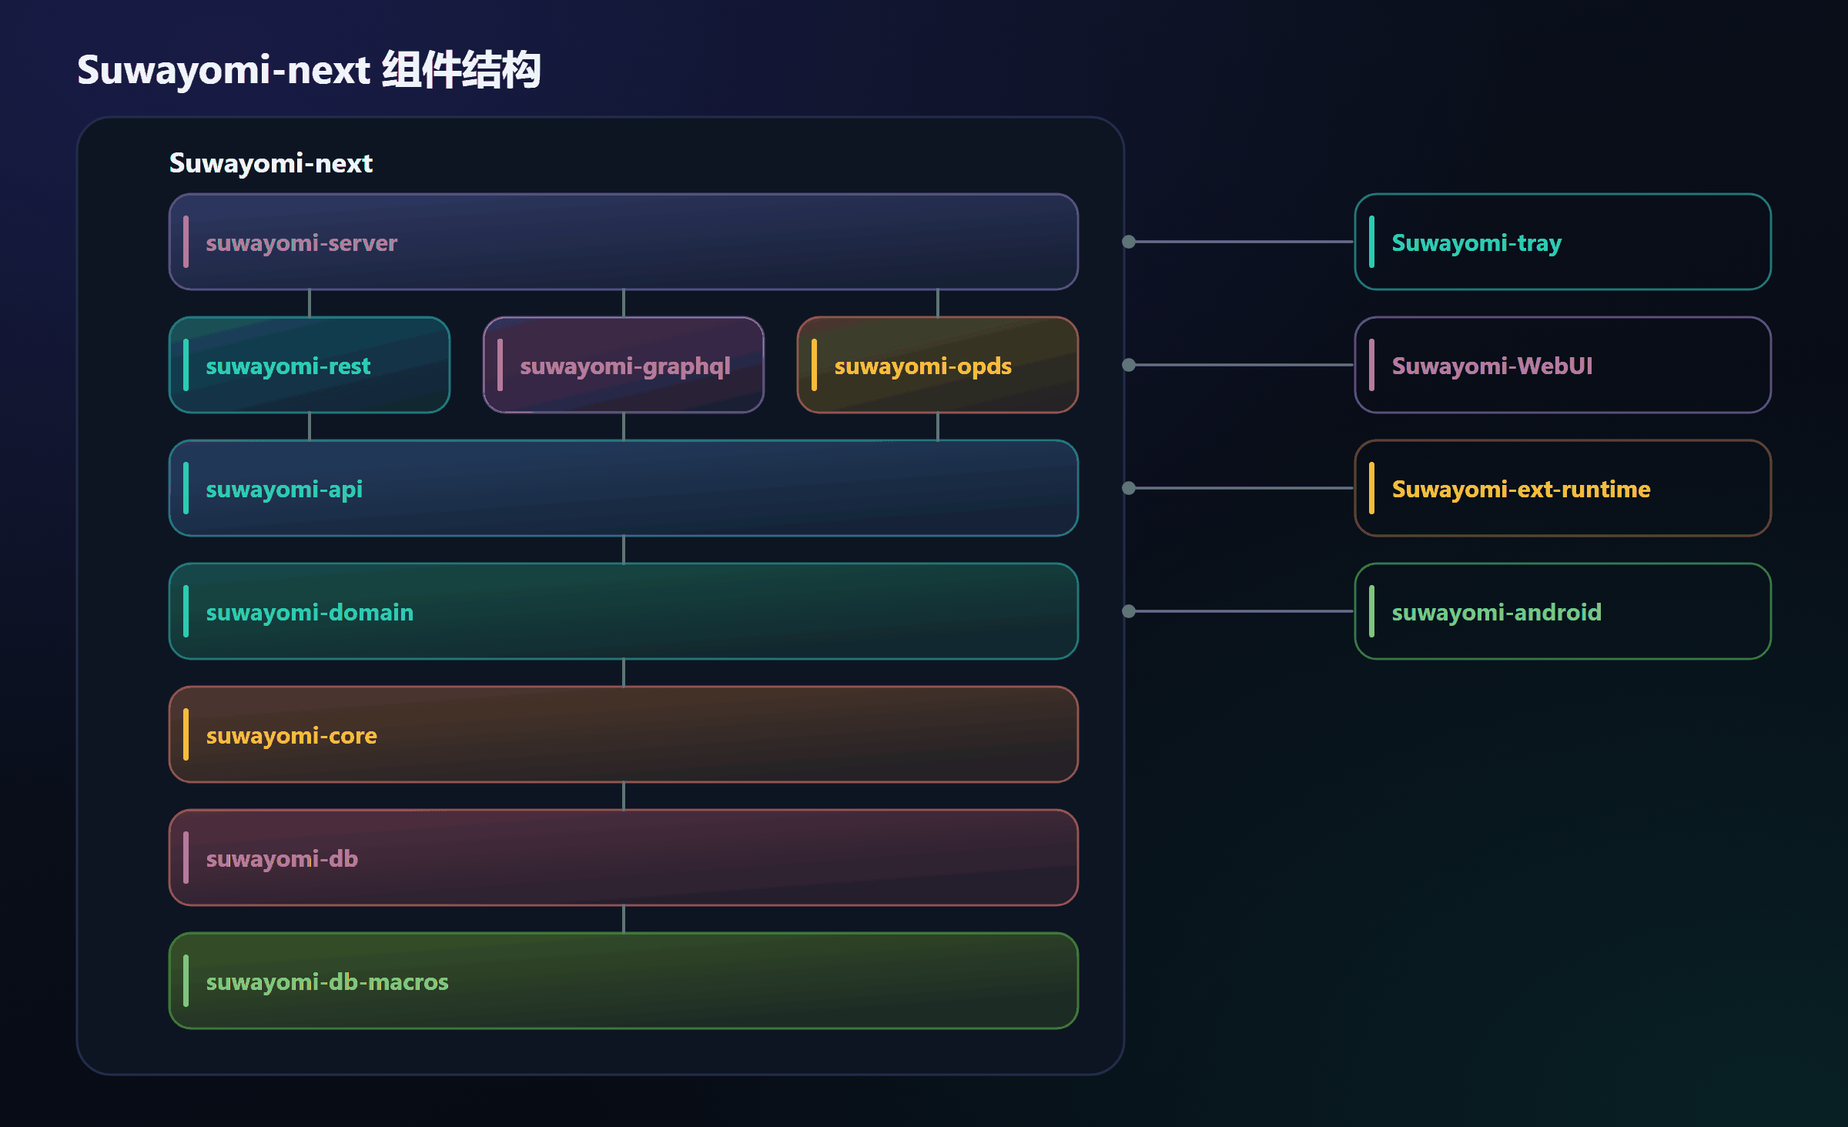
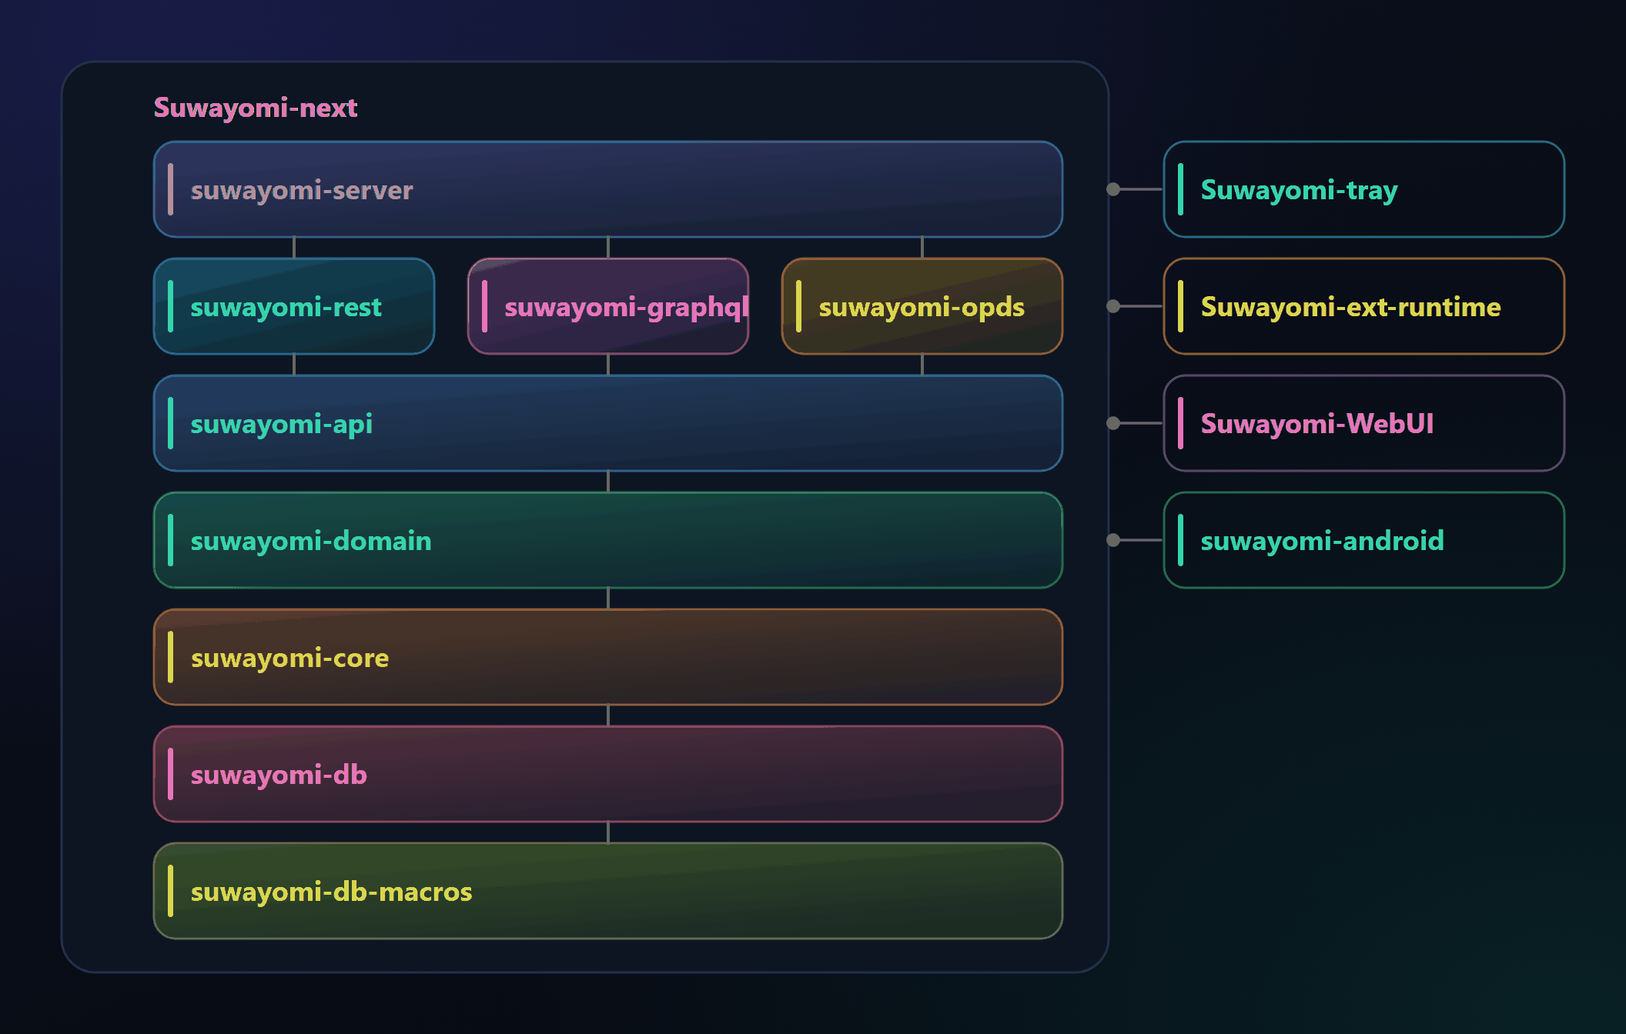
refactor: DatabaseType 去掉 H2，改为 RUSQLITE / POSTGRESQL 两值
H2 是 JVM 专有文件格式，本仓读不了；留着一个点了必然报错的选项没有意义。
认不出的值（含旧表单里的 H2）在回读时保持原样，只影响显示，不影响启动。

同时重画 assets/images/project-struct-simple.png：更紧凑、右列连接线收短、
托盘之后依次是 ext-runtime / WebUI / android、块内字号放大、去掉主标题。

Changed region(s): [[0.0312, 0.0312, 0.9688, 0.9688]]

diff --git a/crates/suwayomi-core/src/config.rs b/crates/suwayomi-core/src/config.rs
@@ -94,10 +94,13 @@ pub fn resolve_setting_path(value: &str, data_dir: &std::path::Path) -> std::pat
     std::path::PathBuf::from(value)
 }
 
-/// Mirrors `graphql/types/DatabaseType.kt`
+/// 数据库后端（GraphQL 的 `DatabaseType`）。
+///
+/// 参考实现的枚举里第一项是 `H2`（JVM 专有文件格式，本仓读不了），这里换成实际
+/// 存在的 `RUSQLITE`：留着 `H2` 就等于在设置页给一个点了必然报错的选项。
 #[derive(Debug, Clone, Copy, PartialEq, Eq, Serialize, Deserialize)]
 pub enum DatabaseType {
-    H2,
+    Rusqlite,
     Postgresql,
 }
 
@@ -200,7 +203,7 @@ impl Default for ServerConfig {
             // bind 报 10013）里：桌面由托盘启动前嗅探并顺延（见 Suwayomi-tray），
             // 独立运行由下面监听循环的自顺延兜底。
             port: 4567,
-            database_type: DatabaseType::H2,
+            database_type: DatabaseType::Rusqlite,
             database_url: String::new(),
             database_username: String::new(),
             database_password: String::new(),
@@ -271,7 +274,9 @@ impl ServerConfig {
         }
         if let Some(v) = text(blob, "databaseType") {
             self.database_type = match v.as_str() {
-                "H2" => DatabaseType::H2,
+                // 认不出的值（含旧表单里已删掉的 H2）保持原样：它只驱动显示，
+                // 真实后端由 `SUWAYOMI_DB_BACKEND` 决定
+                "RUSQLITE" => DatabaseType::Rusqlite,
                 "POSTGRESQL" => DatabaseType::Postgresql,
                 _ => self.database_type,
             };

diff --git a/crates/suwayomi-graphql/src/settings.rs b/crates/suwayomi-graphql/src/settings.rs
@@ -39,14 +39,14 @@ impl AuthMode {
 #[derive(Enum, Copy, Clone, Eq, PartialEq)]
 #[graphql(name = "DatabaseType")]
 pub enum GraphqlDatabaseType {
-    H2,
+    Rusqlite,
     Postgresql,
 }
 
 impl From<CoreDatabaseType> for GraphqlDatabaseType {
     fn from(t: CoreDatabaseType) -> Self {
         match t {
-            CoreDatabaseType::H2 => Self::H2,
+            CoreDatabaseType::Rusqlite => Self::Rusqlite,
             CoreDatabaseType::Postgresql => Self::Postgresql,
         }
     }
@@ -455,7 +455,7 @@ impl SettingsType {
         self.data_dir = ov_str(o, "dataDir", self.data_dir.clone());
         self.database_password = ov_str(o, "databasePassword", self.database_password.clone());
         self.database_type = match o.get("databaseType").and_then(Value::as_str) {
-            Some("H2") => GraphqlDatabaseType::H2,
+            Some("RUSQLITE") => GraphqlDatabaseType::Rusqlite,
             Some("POSTGRESQL") => GraphqlDatabaseType::Postgresql,
             _ => self.database_type,
         };

diff --git a/crates/suwayomi-server/src/lib.rs b/crates/suwayomi-server/src/lib.rs
@@ -50,7 +50,7 @@ pub fn config_from_env() -> ServerConfig {
     // 真实后端由 `DbSettings::from_env()` 决定 —— 两者的接线见
     // docs/agent/plans/database-settings.md。
     let mut cfg =
-        ServerConfig { database_type: suwayomi_core::config::DatabaseType::Postgresql, ..ServerConfig::default() };
+        ServerConfig { database_type: suwayomi_core::config::DatabaseType::Rusqlite, ..ServerConfig::default() };
     if let Ok(v) = std::env::var("SUWAYOMI_PORT") {
         cfg.port = v.parse().unwrap_or(cfg.port);
     }

diff --git a/crates/suwayomi-android/src/lib.rs b/crates/suwayomi-android/src/lib.rs
@@ -159,7 +159,7 @@ fn start_inner(
             port,
             // `database_type` 是 Kotlin 时代遗留的对外字段（WebUI 设置页会显示），
             // 与真实后端无关；这里与桌面 config_from_env() 保持一致。
-            database_type: suwayomi_core::config::DatabaseType::Postgresql,
+            database_type: suwayomi_core::config::DatabaseType::Rusqlite,
             ..ServerConfig::default()
         },
         data_dir: data_dir.clone(),

diff --git a/crates/suwayomi-graphql/src/mutation_b4.rs b/crates/suwayomi-graphql/src/mutation_b4.rs
@@ -2191,7 +2191,7 @@ fn partial_settings_to_json(s: &PartialSettingsTypeInput) -> serde_json::Value {
     put!(
         "databaseType",
         s.database_type.map(|v| match v {
-            GraphqlDatabaseType::H2 => "H2",
+            GraphqlDatabaseType::Rusqlite => "RUSQLITE",
             GraphqlDatabaseType::Postgresql => "POSTGRESQL",
         })
     );

diff --git a/docs/agent/plans/database-settings.md b/docs/agent/plans/database-settings.md
@@ -1,17 +1,17 @@
 # 数据库设置：把设置页的四个字段接到真实后端
 
-目标：让设置里那组数据库字段（`databaseType` / `databaseUrl` / `databaseUsername` /
-`databasePassword`，外加 `useHikariConnectionPool`）**真的决定库开在哪**，而不是像现在
-这样存下来、显示回去、然后被忽略。
+目标：让设置里那组数据库字段（`databaseType` / `databaseUrl` / `databaseUsername` /  
+`databasePassword`）**真的决定库开在哪**，而不是像现在这样存下来、显示回去、然后被忽略。  
+同组的 `useHikariConnectionPool` 相反 —— 本仓后端没有它，字段留着但**不接线、不显示**。
 
 核对基准：
 
-| 参考实现 | commit | 关键文件 |
-| --- | --- | --- |
+| 参考实现            | commit     | 关键文件                                                                                                                                                     |
+| --------------- | ---------- | -------------------------------------------------------------------------------------------------------------------------------------------------------- |
 | Suwayomi-Server | `d37230ee` | `server/server-config/src/main/kotlin/suwayomi/tachidesk/server/ServerConfig.kt`、`AndroidCompat/Config/.../ConfigManager.kt`、`server/.../ServerSetup.kt` |
 
-术语约定：下文**参考实现** = `Suwayomi/Suwayomi-Server`（Kotlin 版）。本项目与它在
-数据模型与接口上兼容，但**后端实现不同**：它跑 JVM（H2 / PostgreSQL + Hikari），本仓
+术语约定：下文**参考实现** = `Suwayomi/Suwayomi-Server`（Kotlin 版）。本项目与它在  
+数据模型与接口上兼容，但**后端实现不同**：它跑 JVM（H2 / PostgreSQL + Hikari），本仓  
 跑原生 Rust（SQLite / PostgreSQL）。
 
 ---
@@ -28,36 +28,38 @@ crates/suwayomi-db/src/config.rs   DbSettings::from_env()
 
 而设置页那四个字段走的是另一条链，**终点是显示**：
 
-| 环节 | 位置 |
-| --- | --- |
-| 写入 | `setSettings` → `mutation_b4.rs:2190` 起，落进 `global_meta['settings']` 的 JSON blob |
-| 读进配置 | `ServerConfig::apply_settings_blob`（`suwayomi-core/src/config.rs:272-290`） |
-| 回读显示 | `state.rs:95-114`：`ServerConfig` 上盖一层 blob → `Query.settings` |
+| 环节   | 位置                                                                               |
+| ---- | -------------------------------------------------------------------------------- |
+| 写入   | `setSettings` → `mutation_b4.rs:2190` 起，落进 `global_meta['settings']` 的 JSON blob |
+| 读进配置 | `ServerConfig::apply_settings_blob`（`suwayomi-core/src/config.rs:272-290`）       |
+| 回读显示 | `state.rs:95-114`：`ServerConfig` 上盖一层 blob → `Query.settings`                    |
 
-`run()` 里开库用的是 `db_settings.unwrap_or_else(|| DbSettings::from_env(...))`
-（`suwayomi-server/src/lib.rs`），**不读 blob**。于是设置页显示的是"你存了什么"，
+`run()` 里开库用的是 `db_settings.unwrap_or_else(|| DbSettings::from_env(...))`  
+（`suwayomi-server/src/lib.rs`），**不读 blob**。于是设置页显示的是"你存了什么"，  
 不是"正在用什么"。
 
 另外两条事实（决定了后面能怎么接）：
 
-- **嵌入式 Oliphaunt 已删除**（`suwayomi-server/Cargo.toml:40` 的注释），所以
-  `DatabaseType::H2` 在本项目里没有对应实现 —— H2 是 JVM 专有格式，本仓读不了。
-- **没有 Hikari**：PostgreSQL 侧是 `deadpool`，池大小写死 `max_size(24)`
-  （`suwayomi-db/src/backend/postgres.rs:30`）。`useHikariConnectionPool` 只是一个
-  参考实现 schema 里的字段（备份协议 `backup.rs:420-431` 也带着它）。
+- **嵌入式 Oliphaunt 已删除**（`suwayomi-server/Cargo.toml:40` 的注释），参考实现枚举里的  
+  `H2` 在本项目里没有对应实现 —— 它是 JVM 专有文件格式，本仓读不了。所以本仓的  
+  `DatabaseType` 是 `RUSQLITE` / `POSTGRESQL` 两个值（2026-09-30 已改），没有 `H2`。
+- **没有 Hikari**：PostgreSQL 侧是 `deadpool`，池大小写死 `max_size(24)`  
+  （`suwayomi-db/src/backend/postgres.rs:30`）。`useHikariConnectionPool` 只是一个  
+  参考实现 schema 里的字段（备份协议 `backup.rs:420-431` 也带着它），WebUI 侧已把它  
+  移出界面（`DebugInformation.tsx` 的 `UNSUPPORTED_SERVER_SETTINGS`）。
 
 ---
 
 ## 1. 为什么不能把这一项存进库
 
-**库就是被这一项选出来的。** 把选择结果写进 `global_meta` 后，改完设置重启时读到的
-还是旧库里的旧值 —— 换了 `databaseType` 就永远读不到新值，这正是"设置不生效"的根因，
+**库就是被这一项选出来的。** 把选择结果写进 `global_meta` 后，改完设置重启时读到的  
+还是旧库里的旧值 —— 换了 `databaseType` 就永远读不到新值，这正是"设置不生效"的根因，  
 不是"忘了读"。同理，它也不能靠"重启时读文件"以外的方式持久化。
 
-参考实现正是这么做的：整个 `ServerConfig` 存在**库之外**的 HOCON 文件
-`<ApplicationRootDir>/server.conf`（`ConfigManager.userConfigFile`），
-`-Dsuwayomi.tachidesk.config.server.<字段>` 可覆盖；`ServerSetup.kt:347` 还订阅了
-`DatabaseSettings` 五个字段的组合流，变化时直接 `databaseUp()` 重开库。
+参考实现正是这么做的：整个 `ServerConfig` 存在**库之外**的 HOCON 文件  
+`<ApplicationRootDir>/server.conf`（`ConfigManager.userConfigFile`），  
+`-Dsuwayomi.tachidesk.config.server.<字段>` 可覆盖；`ServerSetup.kt:347` 还订阅了  
+`DatabaseSettings` 五个字段的组合流，变化时直接 `databaseUp()` 重开库。  
 我们只做到了"env 决定 + 库内展示"，两边的口径是断的。
 
 ---
@@ -67,7 +69,7 @@ crates/suwayomi-db/src/config.rs   DbSettings::from_env()
 放在这里而不是库里、也不是别的目录，理由有三条：
 
 - 它在库**之前**就可读：库在 `<appdata>/db/`，`settings/` 是它的兄弟目录；
-- 这个目录本来就是"库之外的进程状态"：`trackers.json`、`session.key` 同处，
+- 这个目录本来就是"库之外的进程状态"：`trackers.json`、`session.key` 同处，  
   容器里随 appdata 卷一起走，不需要新的可写根；
 - 与 `tray.json` 同构：都是"某个进程写在 appdata 下的设置文件"。
 
@@ -84,55 +86,58 @@ crates/suwayomi-db/src/config.rs   DbSettings::from_env()
 
 **优先级：env → 文件 → 默认**（`SUWAYOMI_DB_BACKEND` / `SUWAYOMI_DB_URL` 仍是最高档）。
 
-- env 优先是刻意的：容器与单机部署没有设置页，env 必须能压过文件；这与
+- env 优先是刻意的：容器与单机部署没有设置页，env 必须能压过文件；这与  
   `SUWAYOMI_APPDATA_DIR` 的语义一致（env 是部署级，文件是应用级）。
-- **两者不一致时以 env 为准并 warn**，设置页上标明"被环境变量覆盖"。否则用户点完
+- **两者不一致时以 env 为准并 warn**，设置页上标明"被环境变量覆盖"。否则用户点完  
   保存、重启、发现没变，就又回到今天这种"设置不生效"的体验。
 
-写入侧：`setSettings` 把这四个字段同时写文件（仍是原来那份 blob 也照写，`Query.settings`
+写入侧：`setSettings` 把这四个字段同时写文件（仍是原来那份 blob 也照写，`Query.settings`  
 的回读要它），并返回/提示"重启后生效"（与 `dataDir` 同构）。
 
-⚠ **换后端不搬运数据**：SQLite ↔ PostgreSQL 之间没有迁移，换过去就是一个按迁移脚本
+⚠ **换后端不搬运数据**：SQLite ↔ PostgreSQL 之间没有迁移，换过去就是一个按迁移脚本  
 新建的空库。设置页必须在切换处明写这一点，否则用户以为"切过去就能看到书架"。
 
 ### 不采用的方案
 
-| 方案 | 为什么不 |
-| --- | --- |
-| 存进 `global_meta`（现状） | 选的库是它自己，重启即失效（见第 1 节） |
-| 只保留 env，把四个字段从 GraphQL 摘掉 | 与参考实现的 schema 差异扩大，且 WebUI 的调试信息页已经在展示它们 |
+| 方案                                   | 为什么不                                                    |
+| ------------------------------------ | ------------------------------------------------------- |
+| 存进 `global_meta`（现状）                 | 选的库是它自己，重启即失效（见第 1 节）                                   |
+| 只保留 env，把四个字段从 GraphQL 摘掉            | 与参考实现的 schema 差异扩大，且 WebUI 的调试信息页已经在展示它们                |
 | 指向一个固定的 `suwayomi.conf`（照抄 HOCON 形态） | 本仓没有 HOCON 依赖；`settings/` 下已有一批 JSON 形态的状态文件，再加一种格式没有收益 |
 
 ---
 
 ## 3. 逐字段接线
 
-| 字段 | 现状 | 接线后 |
-| --- | --- | --- |
-| `databaseType` | 只显示，`config_from_env()` 里写死 `Postgresql` | 枚举加 `SQLITE`；`H2` 保留但**选它即报错**（H2 文件读不了），默认 `SQLITE` |
-| `databaseUrl` | 只显示 | `backend=postgres` 时作为连接串；落盘前校验非空且能解析成 PG 串，失败不落盘并回错 |
-| `databaseUsername` / `databasePassword` | 只显示 | `DbSettings` 加这两个字段（**不并进 DSN**：`tokio-postgres` 的报错会带整条 URL，凭据会进日志），`describe()` 打码 |
-| `useHikariConnectionPool` | 只显示，无实现 | **不接线**：接收但当成 no-op（baseline 与备份协议里有这个键）；将来要池旋钮就另立名字（如 `dbPoolSize`），别把一个 JVM 库的名字当开关 |
+| 字段                                      | 现状                                       | 接线后                                                                                   |
+| --------------------------------------- | ---------------------------------------- | ------------------------------------------------------------------------------------- |
+| `databaseType`                          | 只显示，枚举是 `RUSQLITE` / `POSTGRESQL`      | 决定 `BackendKind`：`RUSQLITE` → SQLite、`POSTGRESQL` → PostgreSQL（与 `SUWAYOMI_DB_BACKEND` 同义，env 优先） |
+| `databaseUrl`                           | 只显示                                      | `databaseType=POSTGRESQL` 时作为连接串；落盘前校验非空且能解析成 PG 串，失败不落盘并回错                          |
+| `databaseUsername` / `databasePassword` | 只显示                                      | `DbSettings` 加这两个字段（**不并进 DSN**：`tokio-postgres` 的报错会带整条 URL，凭据会进日志），`describe()` 打码  |
+| `useHikariConnectionPool`               | 只显示，无实现                                  | **不接线**：接收但当成 no-op（baseline 与备份协议里有这个键），且**不再显示**；将来要池旋钮就另立名字（如 `dbPoolSize`），别把一个 JVM 库的名字当开关 |
 
-`DatabaseType` 加 `SQLITE` 的连带影响：
+枚举里**不留 `H2`**：留着它，设置页就会给出一个点了必然报错的选项，而它到不了任何  
+后端。旧 blob 里存过的 `H2` 按"认不出的值"处理（保持现值），不影响启动。
 
-- `suwayomi-core/src/config.rs` 的 `DatabaseType`、`suwayomi-graphql/src/settings.rs`
+连带影响：
+
+- `suwayomi-core/src/config.rs` 的 `DatabaseType`、`suwayomi-graphql/src/settings.rs`  
   的 `GraphqlDatabaseType`、以及 `settings.rs` / `config.rs` 里两处字符串映射；
-- **schema 基线不用改**：`schema_matches_baseline` 只比顶层类型定义名；
-- **WebUI 侧必须重跑 codegen**（枚举多一个值），并且 gen 出的
-  `ServerSettings.tsx` 注释里那句 "`SUWAYOMI_DB_BACKEND` / `SUWAYOMI_DATABASE_URL`"
-  已经过期（后者早已改名成 `SUWAYOMI_DB_URL`），顺手改掉。
+- **schema 基线要改**：`enum DatabaseType` 的值换成 `RUSQLITE` / `POSTGRESQL`  
+  （`schema_matches_baseline` 只比顶层类型定义名，所以改值不会让测试红 —— 但基线是  
+  WebUI codegen 的 schema 来源，必须跟着改）；
+- **WebUI 侧必须重跑 codegen**，否则 `graphql-base.types.ts` 里的枚举值对不上。
 
 ---
 
 ## 4. 前端（WebUI 仓）
 
-`ServerSettings.tsx` 的「服务端设置」当初就没恢复「数据库」分区，注释里写明原因
-（"由 env 决定，H2 与 Hikari 无对应实现"）。接线后重开这块，只放四个字段 +
-两条只读信息：
+`ServerSettings.tsx` 的「服务端设置」没有「数据库」分区，原因写在它的头顶注释里  
+（后端由 env 决定、Hikari 无对应实现）。接线后重开这块，只放四个字段 +  
+两条只读信息（`useHikariConnectionPool` 不进界面）：
 
 - 三个可编辑项：类型（下拉）/ URL / 用户名 / 口令；
-- 只读「当前生效」：`databaseType` 与 `databaseUrl` 回读的必须是**实际生效**的值
+- 只读「当前生效」：`databaseType` 与 `databaseUrl` 回读的必须是**实际生效**的值  
   （env 或引导文件），不是刚存的草稿；
 - 「改完需重启」提示 + 「换后端不会搬运数据」警示。
 
@@ -140,20 +145,21 @@ crates/suwayomi-db/src/config.rs   DbSettings::from_env()
 
 ## 5. 实施分层（决策后照此推进）
 
-| 层 | 内容 | 落点 |
-| --- | --- | --- |
-| L1 | 引导文件读写 + 优先级（env → 文件 → 默认）+ 坏文件/坏 JSON 回退默认并 warn | `suwayomi-db/src/config.rs`、`suwayomi-server/src/lib.rs` |
-| L2 | `setSettings` 写文件；`effective_settings()` 里的这四个字段改读"实际生效" | `suwayomi-graphql/src/mutation_b4.rs`、`state.rs` |
-| L3 | 枚举加 `SQLITE`、`H2` 报错；`DbSettings` 加用户名/口令；`describe()` 打码 | `suwayomi-core/src/config.rs`、`suwayomi-db` |
-| L4 | WebUI 数据库分区 + 重跑 codegen | `Suwayomi-WebUI` |
-| L5 | user-guide 补「数据库设置」节；`ci_pack_check.py` 加回读一致性断言 | 文档 / 验证脚本 |
+| 层  | 内容                                                        | 落点                                                       |
+| -- | --------------------------------------------------------- | -------------------------------------------------------- |
+| L1 | 引导文件读写 + 优先级（env → 文件 → 默认）+ 坏文件/坏 JSON 回退默认并 warn        | `suwayomi-db/src/config.rs`、`suwayomi-server/src/lib.rs` |
+| L2 | `setSettings` 写文件；`effective_settings()` 里的这四个字段改读"实际生效"  | `suwayomi-graphql/src/mutation_b4.rs`、`state.rs`         |
+| L3 | `DbSettings` 加用户名/口令；`describe()` 打码；`databaseType` 两个值各映射到一个后端 | `suwayomi-core/src/config.rs`、`suwayomi-db`              |
+| L4 | WebUI 数据库分区 + 重跑 codegen                                  | `Suwayomi-WebUI`                                          |
+| L5 | user-guide 补「数据库设置」节；`ci_pack_check.py` 加回读一致性断言          | 文档 / 验证脚本                                                |
 
 ---
 
 ## 6. 验证
 
-- **单测**：优先级解析（env 有没有都覆盖到）、坏文件不致命、`H2` 被拒；
-- **端到端**：写引导文件 → 重启 → 启动日志里的 `database backend:` 换库；同时设 env
+- **单测**：优先级解析（env 有没有都覆盖到）、坏文件不致命、`databaseType` 两个值各  
+  映射到正确的后端、认不出的值保持现值；
+- **端到端**：写引导文件 → 重启 → 启动日志里的 `database backend:` 换库；同时设 env  
   与文件不一致时，日志出现"以 env 为准"的 warn，且库确实是 env 那个；
 - **回读**：`Query.settings.databaseUrl` == 实际生效值（不是 blob 里的旧值）；
 - `ci_pack_check.py`：文案（`只有它决定`）与回读口径。
@@ -163,5 +169,5 @@ crates/suwayomi-db/src/config.rs   DbSettings::from_env()
 ## 7. 未决
 
 - 口令是否明文落盘：倾向照参考实现（`server.conf` 也是明文）+ 日志里恒打码。
-- 要不要支持"从 H2 搬库"：不支持 —— 那是 JVM 专有格式，唯一的路是 Mihon `.proto`
-  备份导入（见 `docs/zh/user-guide.md`）。
+- 不支持从 H2 搬库：那是 JVM 专有格式，唯一的路是 Mihon `.proto` 备份导入  
+  （见 `docs/zh/user-guide.md`）。本仓不再提"读旧 H2 文件"这条路。
